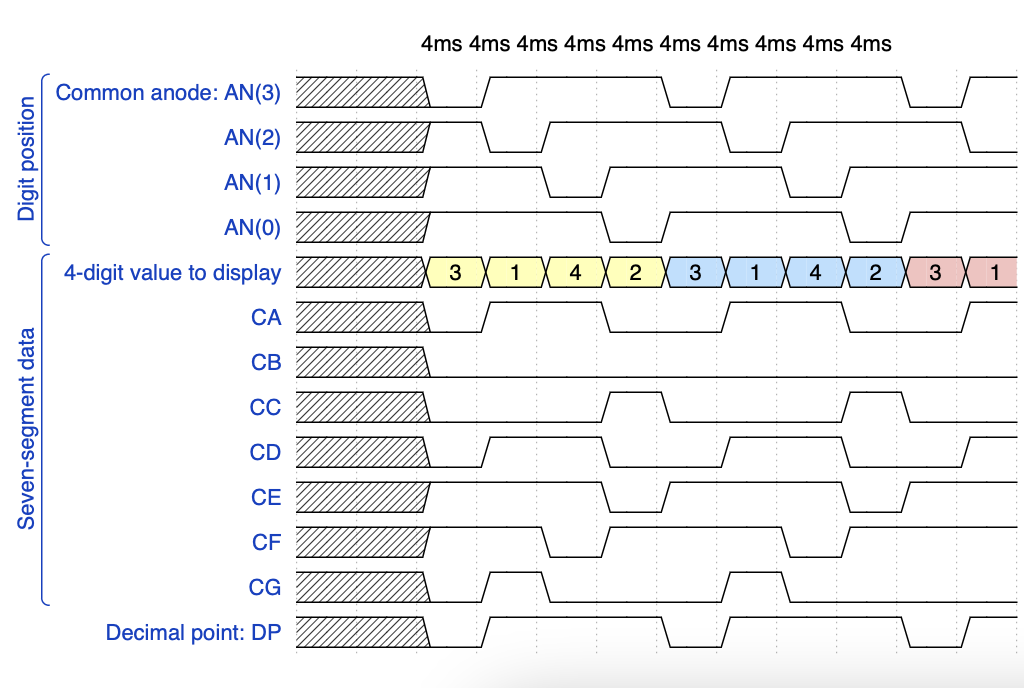
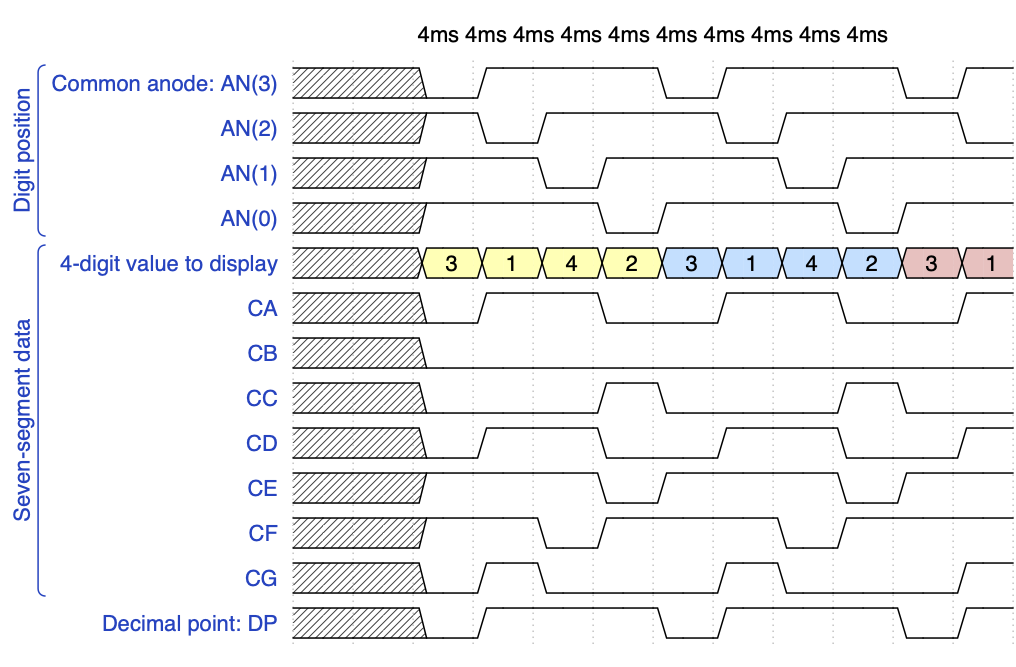
lab6 preparation task

diff --git a/Labs/06-display_driver/README.md b/Labs/06-display_driver/README.md
@@ -26,7 +26,7 @@ Due to the physiological properties of human vision, it is necessary that the ti
       {name: 'CD', wave: 'xx01.0.1.0.1'},
       {name: 'CE', wave: 'xx1..01..01.'},
       {name: 'CF', wave: 'xx1.01..01..'},
-      {name: 'CG', wave: 'xx010..10...'},
+      {name: 'CG', wave: 'xx010..10..1'},
     ],
     {name: 'Decimal point: DP', wave: 'xx01..01..01'},
   ],
